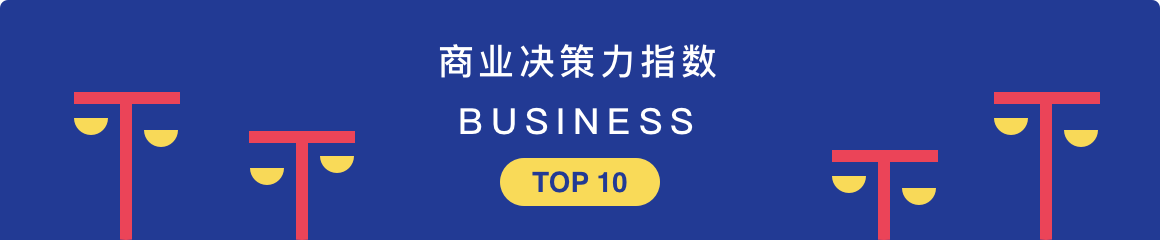
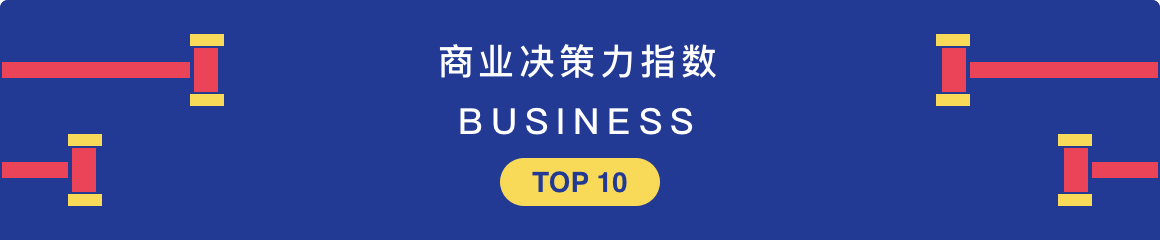
修改排行榜图片

diff --git a/src/components/pages/home/innovation/InnovationHome.vue b/src/components/pages/home/innovation/InnovationHome.vue
@@ -5,7 +5,7 @@
         <el-col :span="24">
           <router-link :to="{name: 'InnovateList', hash: '#innovation'}" class="dimension-resolve">
             <div class="img-box">
-              <img :src="require('assets/images/subject/innovation/basic_power@2x.png')" alt="">
+              <img :src="require('assets/images/subject/innovation/design@2x.png')" alt="">
             </div>
             <div class="dimension-title">
               <p>设计创新力指数</p>
@@ -17,7 +17,7 @@
         <el-col :xs="24" :sm="8" :md="8" :lg="8">
           <router-link :to="{name: 'InnovateList', hash: '#power'}" class="dimension-resolve">
             <div class="img-box">
-              <img :src="require('assets/images/subject/innovation/innovate@2x.png')" alt="">
+              <img :src="require('assets/images/subject/innovation/basic_power@2x.png')" alt="">
             </div>
             <div class="dimension-title">
               <p>基础运作力指数</p>
@@ -29,7 +29,7 @@
         <el-col :xs="24" :sm="8" :md="8" :lg="8">
           <router-link :to="{name: 'InnovateList', hash: '#innovation2'}" class="dimension-resolve">
             <div class="img-box">
-              <img :src="require('assets/images/subject/innovation/business_making_power@2x.png')" alt="">
+              <img :src="require('assets/images/subject/innovation/innovate@2x.png')" alt="">
             </div>
             <div class="dimension-title">
               <p>创新交付力指数</p>
@@ -41,7 +41,7 @@
         <el-col :xs="24" :sm="8" :md="8" :lg="8">
           <router-link :to="{name: 'InnovateList', hash: '#business'}" class="dimension-resolve">
             <div class="img-box">
-              <img :src="require('assets/images/subject/innovation/business@2x.png')" alt="">
+              <img :src="require('assets/images/subject/innovation/business_making_power@2x.png')" alt="">
             </div>
             <div class="dimension-title">
               <p>商业决策力指数</p>
@@ -53,7 +53,7 @@
         <el-col :xs="24" :sm="8" :md="8" :lg="8">
           <router-link :to="{name: 'InnovateList', hash: '#brand'}" class="dimension-resolve">
             <div class="img-box">
-              <img :src="require('assets/images/subject/innovation/objective_credibility@2x.png')" alt="">
+              <img :src="require('assets/images/subject/innovation/business@2x.png')" alt="">
             </div>
             <div class="dimension-title">
               <p>品牌溢价力指数</p>
@@ -65,7 +65,7 @@
         <el-col :xs="24" :sm="8" :md="8" :lg="8">
           <router-link :to="{name: 'InnovateList', hash: '#credibility'}" class="dimension-resolve">
             <div class="img-box">
-              <img :src="require('assets/images/subject/innovation/risk_response_ability@2x.png')" alt="">
+              <img :src="require('assets/images/subject/innovation/objective_credibility@2x.png')" alt="">
             </div>
             <div class="dimension-title">
               <p>客观公信力指数</p>

diff --git a/src/components/pages/home/innovation/InnovationList.vue b/src/components/pages/home/innovation/InnovationList.vue
@@ -103,7 +103,7 @@
           <img class="board-header" :src="require('assets/images/subject/innovation/01@2x.png')" alt="">
           <div class="board">
             <div class="inno-header clearfix">
-              <el-col :xs="4" :sm="2" :md="2" :lg="2">排名</el-col>
+              <el-col :xs="4" :sm="2" :md="2" :lg="2">排名111</el-col>
               <el-col :xs="16" :sm="20" :md="20" :lg="20">企业名称</el-col>
               <el-col class="text-center" :xs="4" :sm="2" :md="2" :lg="2">分数</el-col>
             </div>
@@ -136,7 +136,7 @@
           <img class="board-header" :src="require('assets/images/subject/innovation/02@2x.png')" alt="">
           <div class="board">
             <div class="inno-header clearfix">
-              <el-col :xs="4" :sm="2" :md="2" :lg="2">排名</el-col>
+              <el-col :xs="4" :sm="2" :md="2" :lg="2">排名222</el-col>
               <el-col :xs="16" :sm="20" :md="20" :lg="20">企业名称</el-col>
               <el-col class="text-center" :xs="4" :sm="2" :md="2" :lg="2">分数</el-col>
             </div>
@@ -171,7 +171,7 @@
           <img class="board-header" :src="require('assets/images/subject/innovation/03@2x.png')" alt="">
           <div class="board">
             <div class="inno-header clearfix">
-              <el-col :xs="4" :sm="2" :md="2" :lg="2">排名</el-col>
+              <el-col :xs="4" :sm="2" :md="2" :lg="2">排名333</el-col>
               <el-col :xs="16" :sm="20" :md="20" :lg="20">企业名称</el-col>
               <el-col class="text-center" :xs="4" :sm="2" :md="2" :lg="2">分数</el-col>
             </div>
@@ -204,7 +204,7 @@
           <img class="board-header" :src="require('assets/images/subject/innovation/04@2x.png')" alt="">
           <div class="board">
             <div class="inno-header clearfix">
-              <el-col :xs="4" :sm="2" :md="2" :lg="2">排名</el-col>
+              <el-col :xs="4" :sm="2" :md="2" :lg="2">排名444</el-col>
               <el-col :xs="16" :sm="20" :md="20" :lg="20">企业名称</el-col>
               <el-col class="text-center" :xs="4" :sm="2" :md="2" :lg="2">分数</el-col>
             </div>
